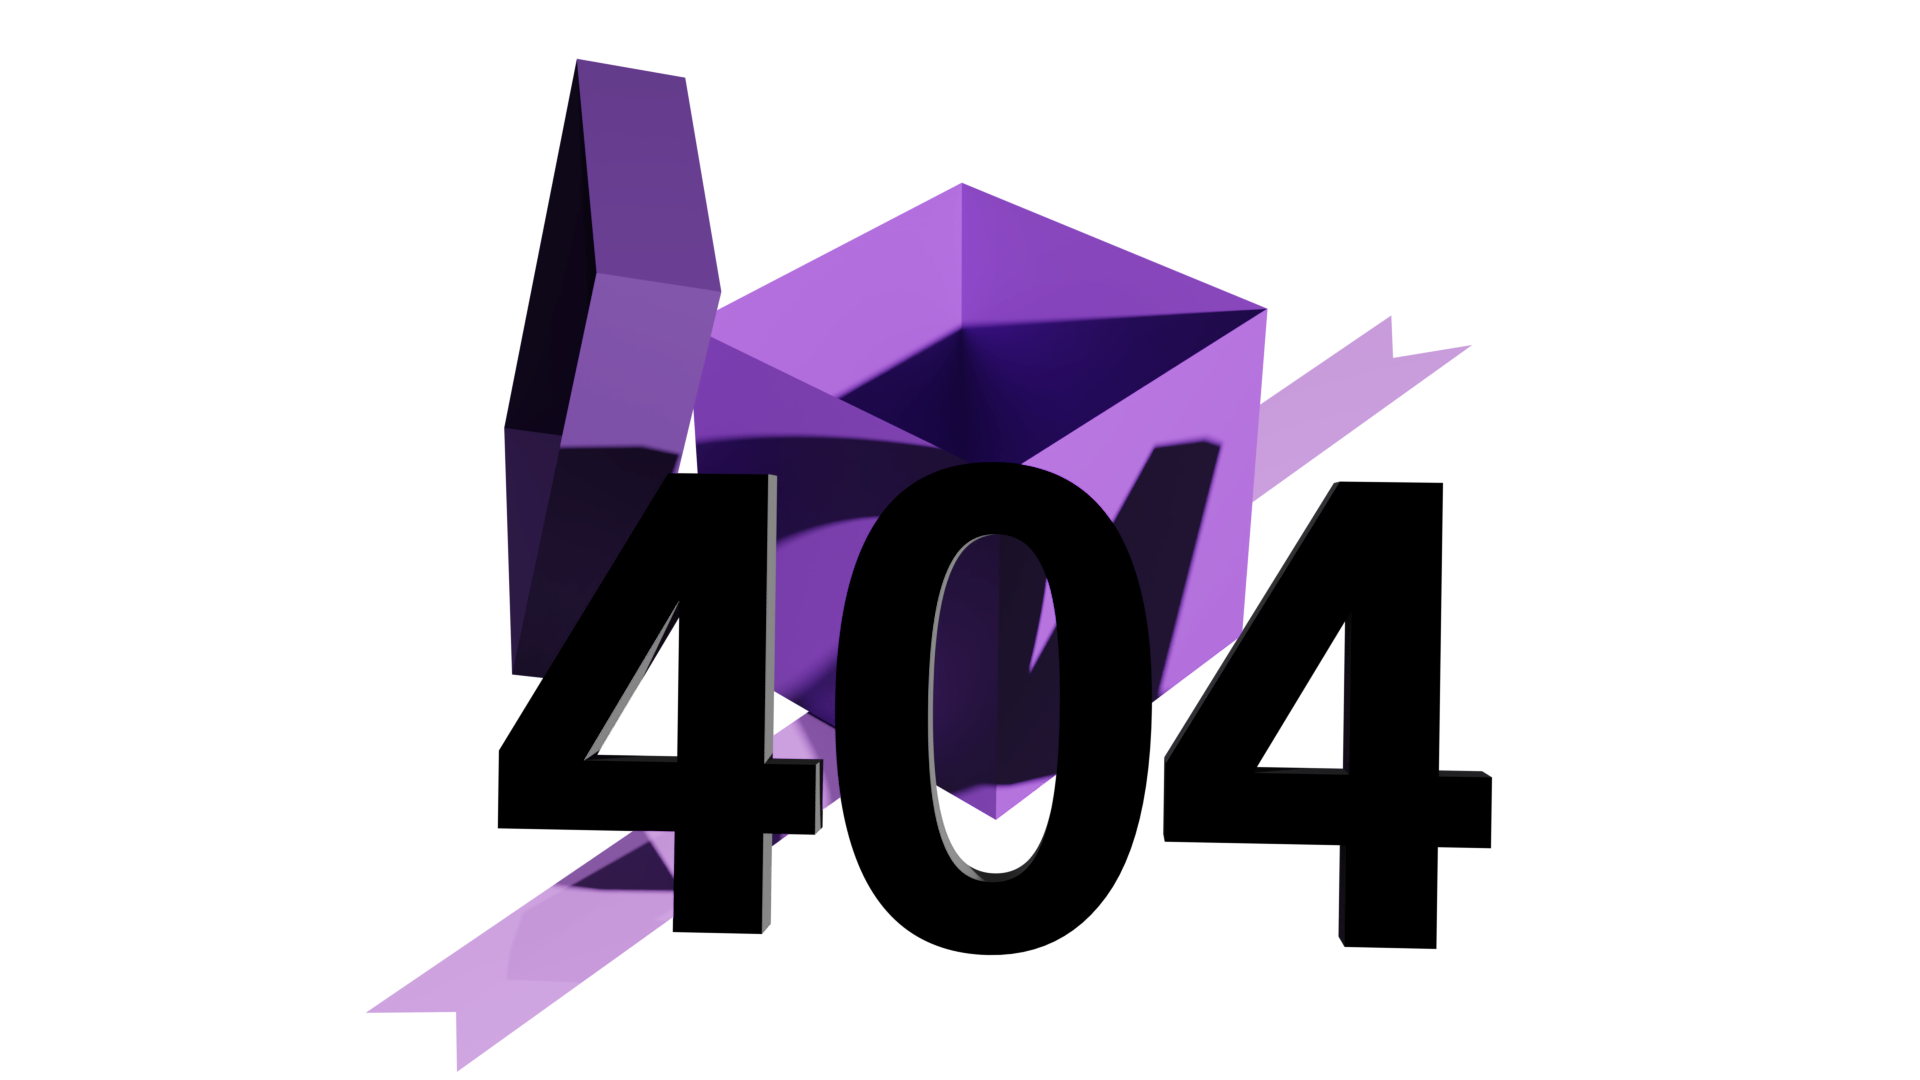
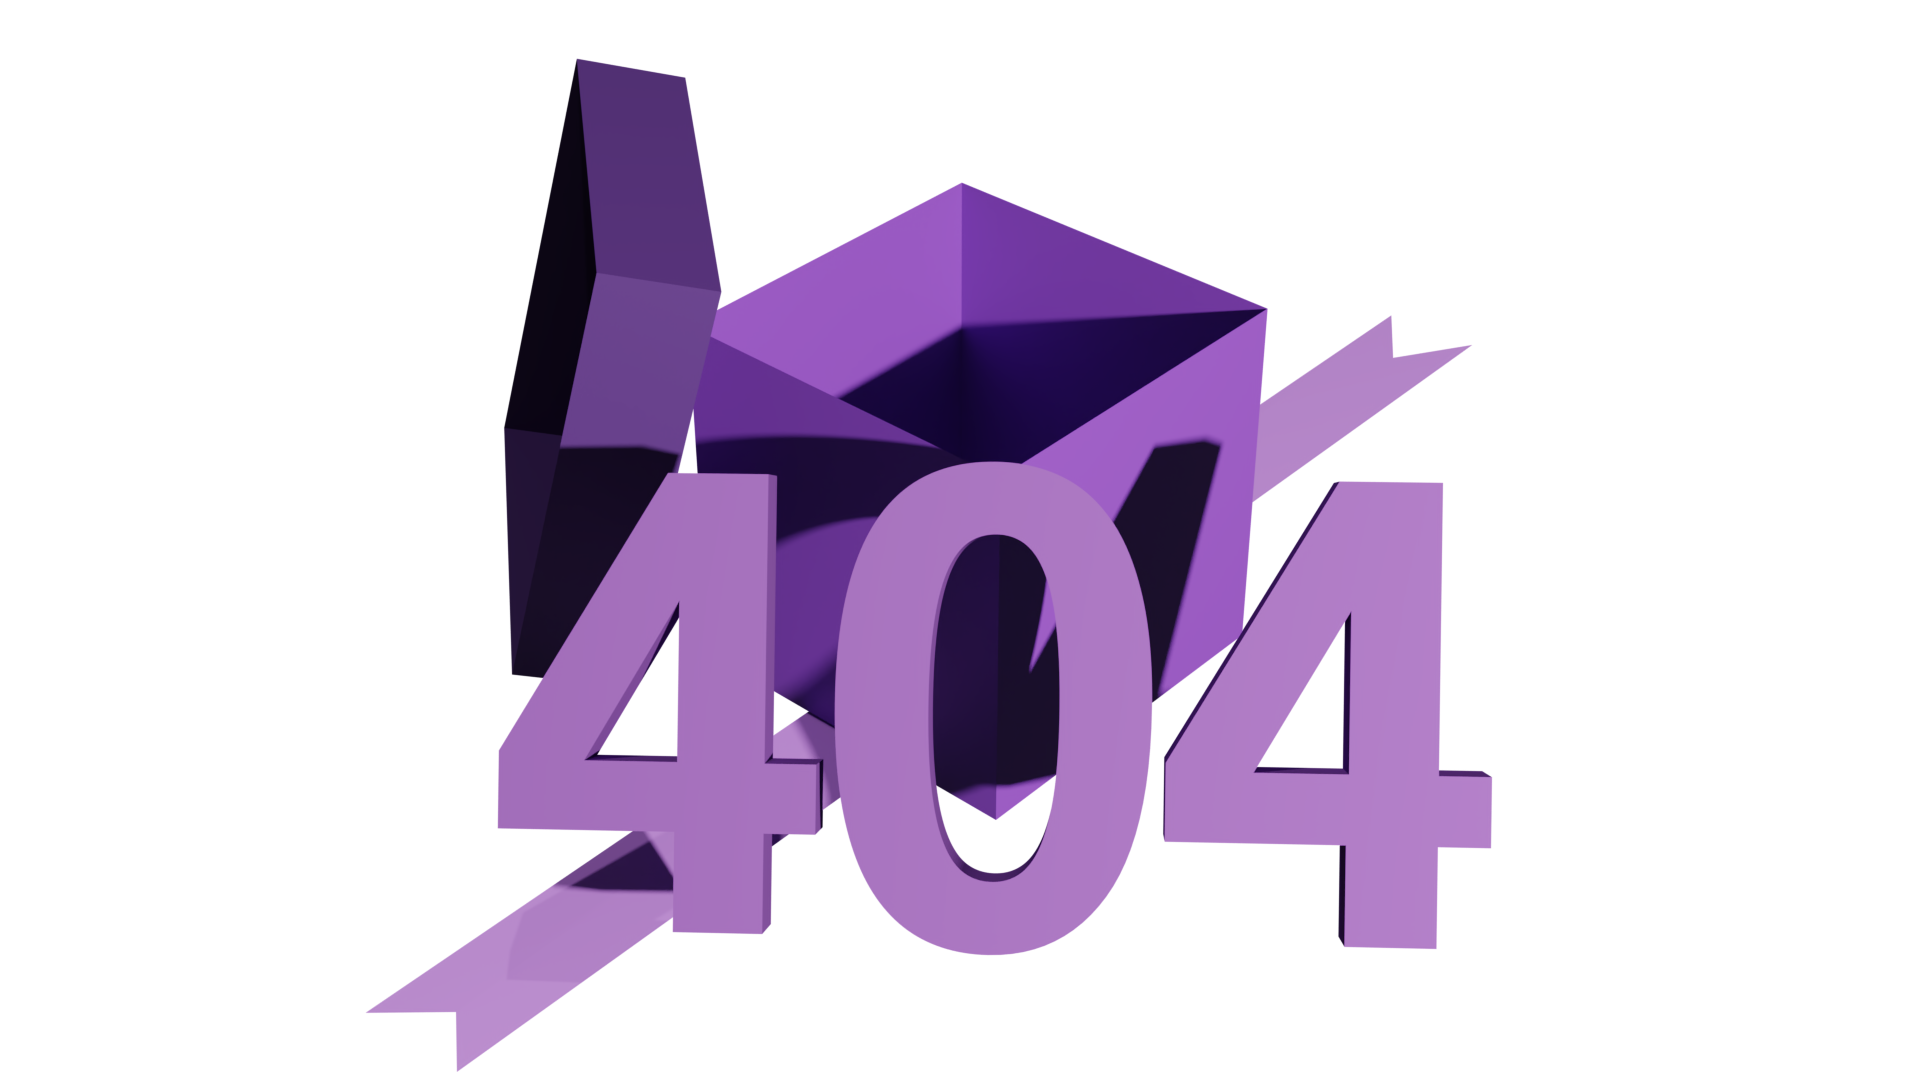
[*] Updated/fixed: |   Responsivity improved; |   Fixed a bug that allowed skipping pairs reveals; |   404 img is now lighter;

Changed region(s): [[0.25, 0.0611, 0.7812, 0.8861]]

diff --git a/src/components/revealButton/index.js b/src/components/revealButton/index.js
@@ -10,7 +10,7 @@ import { GetPairs } from "../../script";
 export default function RevealButton (props){
     const [holderState, setHolderState] = React.useState({transition: "0.5s", backgroundSize: "0px", backgroundImage: Ellipse}); //background
     const [buttonState, setButtonState] = React.useState({backgroundColor: "#8542c8", backgroundImage: PressNHold}); //button
-    const [information, setInformation] = React.useState({opacity: 0}); //info
+    const [information, setInformation] = React.useState({opacity: 0, display: "none"}); //info
     const [tOut, setTOut] = React.useState(false);
     const [guestTwo, setGuestTwo] = React.useState("...");
     const [mainColor, setMainColor] = React.useState();
@@ -27,7 +27,7 @@ export default function RevealButton (props){
     function revealDetail(){
         setHolderState({background: "none"});
         setButtonState({backgroundColor: "transparent", backgroundImage: "none", cursor: "default"});
-        setInformation({opacity: 1});
+        setInformation({opacity: 1, display: "flex"});
         setGuestTwo(props.guestTwo);
     }
 
@@ -47,15 +47,17 @@ export default function RevealButton (props){
     }
 
     return(
-        <div>
+        <div class="holderPairInfo">
             <p className="title" style={mainColor}><span>{props.guestOne}</span> got <span>{guestTwo}</span></p>
             <div className="revealButton" style={buttonState} onTouchStartCapture={() => startAnimation()} onMouseDownCapture={() => startAnimation()} onMouseUpCapture={() => stopAnimation()} onTouchEndCapture={() => stopAnimation()}>
                 <div className="buttonBackground" style={holderState}>
                     <div className="guestInfo" style={information}>
-                        <p className="title" style={mainColor}>Gift suggestion</p>
-                        <button className="fieldLike" style={mainColor}>{props.giftSuggestion}</button>
-                        <p className="title" style={mainColor}>Gift price (approx.)</p>
-                        <button className="fieldLike" style={mainColor}>{new Intl.NumberFormat('en-US', {style: 'currency', currency: 'USD',}).format(props.giftPrice)}</button>
+                        <div>
+                            <p className="title" style={mainColor}>Gift suggestion</p>
+                            <button className="fieldLike" style={mainColor}>{props.giftSuggestion}</button>
+                            <p className="title" style={mainColor}>Gift price (approx.)</p>
+                            <button className="fieldLike" style={mainColor}>{new Intl.NumberFormat('en-US', {style: 'currency', currency: 'USD',}).format(props.giftPrice)}</button>
+                        </div>
                         <Link
                             to={() => (props.currentPair === (GetPairs().length - 1)) ? ("/donate") : false}
                             onClick={() => (props.currentPair !== (GetPairs().length - 1)) ? (props.function((e) => (e + 1))) : false}>

diff --git a/src/pages/index/index.js b/src/pages/index/index.js
@@ -37,12 +37,16 @@ export default function Index (props){
     return(
         <div className="page">
             {(panelContent) ? <BottomPanel theme={props.theme} closePanel={() => setPanelContent(false)} content={panelContent}/> : false}
-            <Header theme={props.theme} headerFunction={props.headerFunction}/>
-            <p className='title' style={mainColor}>Need an app to help you host a Secret Santa?</p>
-            <p className='subTitle' style={secondColor}>Enter the names, gift suggestions, and more for free!</p>
+            <div>
+                <Header theme={props.theme} headerFunction={props.headerFunction}/>
+                <p className='title' style={mainColor}>Need an app to help you host a Secret Santa?</p>
+                <p className='subTitle' style={secondColor}>Enter the names, gift suggestions, and more for free!</p>
+            </div>
             <img className="giffty3d" alt="Giffty 3D" src={Giffty3D}/>
-            <Link to="/event-details"><Button value="Start" image={RightArrow} alt="Next icon"/></Link>
-            <p className="bottomLink" onClick={() => howTo()}>How to use</p>
+            <div>
+                <Link to="/event-details"><Button value="Start" image={RightArrow} alt="Next icon"/></Link>
+                <p className="bottomLink" onClick={() => howTo()}>How to use</p>
+            </div>
         </div>
     );
 }

diff --git a/src/pages/gameBegin/index.js b/src/pages/gameBegin/index.js
@@ -21,11 +21,15 @@ export default function GameBegin (props){
     let stepTwo = <div><div style={{color: "#8542c8", display: "inline-block"}}>Press and hold</div> the reveal button to show your pair.</div>;
     return(
         <div className="page">
-            <Header step={0} theme={props.theme} headerFunction={props.headerFunction}/>
-            <p className='title' style={mainColor}>The game is on!</p>
-            <Instruction theme={props.theme} number={1} text="Pass the device to the one whom name shows on the screen."/>
-            <Instruction theme={props.theme} number={2} text={stepTwo}/>
-            <Instruction theme={props.theme} number={3} text="Repeat step 01."/>
+            <div>
+                <Header step={0} theme={props.theme} headerFunction={props.headerFunction}/>
+                <p className='title' style={mainColor}>The game is on!</p>
+            </div>
+            <div>
+                <Instruction theme={props.theme} number={1} text="Pass the device to the one whom name shows on the screen."/>
+                <Instruction theme={props.theme} number={2} text={stepTwo}/>
+                <Instruction theme={props.theme} number={3} text="Repeat step 01."/>
+            </div>
             <Link to="/reveal" onClick={() => SetPairs()}><Button value="Next" image={RightArrow} alt="Next icon"/></Link>
         </div>
     );

diff --git a/src/pages/eventDetails/index.js b/src/pages/eventDetails/index.js
@@ -26,11 +26,15 @@ export default function EventDetails (props){
 
     return(
         <div className="page">
-            <Header step={1} theme={props.theme} link="/" headerFunction={props.headerFunction}/>
-            <p className='title' style={mainColor}>Let's set the budget first.</p>
-            <span style={{height: "36vh"}}/>
-            <TextField value={GetPrice()} type="num" function={saveField} theme={props.theme} format="currency" placeholder="Gift price (optional)"/>
-            <Link to="/guests" onClick={() => SetPrice(fieldValue)}><Button value={buttonValue} image={RightArrow} alt="Next icon"/></Link>
+            <div>
+                <Header step={1} theme={props.theme} link="/" headerFunction={props.headerFunction}/>
+                <p className='title' style={mainColor}>Let's set the budget first.</p>
+            </div>
+            <span style={{height: "30vh"}}/>
+            <div>
+                <TextField value={GetPrice()} type="num" function={saveField} theme={props.theme} format="currency" placeholder="Gift price (optional)"/>
+                <Link to="/guests" onClick={() => SetPrice(fieldValue)}><Button value={buttonValue} image={RightArrow} alt="Next icon"/></Link>
+            </div>
         </div>
     );
 }

diff --git a/src/pages/darkPairs/index.js b/src/pages/darkPairs/index.js
@@ -89,11 +89,13 @@ export default function DarkPairs (props){
     return(
         <div className="page">
             {(panelContent) ? <BottomPanel theme={props.theme} closePanel={() => setPanelContent(false)} unmountTime={unmountPanel} content={panelContent}/> : false}
-            <Header step={3} theme={props.theme} link="/guests" headerFunction={props.headerFunction}/>
-            <p className='title' style={mainColor}>
-                Would you like to set any dark pairs?
-                <img alt="Information icon" src={icon} onClick={() => infoDarkPair()}/>
-            </p>
+            <div>
+                <Header step={3} theme={props.theme} link="/guests" headerFunction={props.headerFunction}/>
+                <p className='title' style={mainColor}>
+                    Would you like to set any dark pairs?
+                    <img alt="Information icon" src={icon} onClick={() => infoDarkPair()}/>
+                </p>
+            </div>
             <div className="guestList">
                 {(appendDarkPairs().length !== 0) ? appendDarkPairs().map((x) => (x)) : false}
                 <AddItem function={getAddDarkPair} text="Add Dark Pair"/>

diff --git a/src/pages/donate/index.js b/src/pages/donate/index.js
@@ -23,9 +23,11 @@ export default function Donate (props){
 
     return(
         <div className="page">
-            <Header step={0} theme={props.theme} headerFunction={props.headerFunction}/>
-            <p className='title' style={mainColor}>The game is on!</p>
-            <p className='subTitle' style={secondColor}>Hope you enjoyed using the app. Donating helps keep the project online.</p>
+            <div>
+                <Header step={0} theme={props.theme} headerFunction={props.headerFunction}/>
+                <p className='title' style={mainColor}>The game is on!</p>
+                <p className='subTitle' style={secondColor}>Hope you enjoyed using the app. Donating helps keep the project online.</p>
+            </div>
             <img className="giffty3d" alt="Giffty 3D" src={Giffty3D}/>
             <a href="https://github.com/alisuetal"><Button value="Contact me" image={Contact} alt="Next icon"/></a>
             {/*<Link to=""><Button value="Donate" image={DonateIcon} alt="Next icon"/></Link>*/}

diff --git a/src/pages/guests/index.js b/src/pages/guests/index.js
@@ -79,8 +79,10 @@ export default function Guests (props){
     return(
         <div className="page">
             {(panelContent) ? <BottomPanel theme={props.theme} closePanel={() => setPanelContent(false)} unmountTime={unmountPanel} content={panelContent}/> : false}
-            <Header step={2} theme={props.theme} link="/event-details" headerFunction={props.headerFunction}/>
-            <p className='title' style={mainColor}>Set the guests.</p>
+            <div>
+                <Header step={2} theme={props.theme} link="/event-details" headerFunction={props.headerFunction}/>
+                <p className='title' style={mainColor}>Set the guests.</p>
+            </div>
             <div className="guestList">
                 {(appendGuests().length !== 0) ? appendGuests().map((x) => (x)) : false}
                 <AddItem function={getAddGuest} text="Add guest"/>

diff --git a/src/pages/404/index.js b/src/pages/404/index.js
@@ -23,8 +23,10 @@ export default function Page404 (props){
 
     return(
         <div className="page">
-            <Header theme={props.theme} headerFunction={props.headerFunction}/>
-            <p className='title' style={mainColor}>Page not found.</p>
+            <div>
+                <Header theme={props.theme} headerFunction={props.headerFunction}/>
+                <p className='title' style={mainColor}>Page not found.</p>
+            </div>
             <img className="IMG404" alt="Giffty 3D" src={IMG404}/>
             <Link to="/"><Button value="Home page" image={HomeIcon} alt="Home icon"/></Link>
         </div>

diff --git a/src/components/revealButton/index.css b/src/components/revealButton/index.css
@@ -1,6 +1,6 @@
 .revealButton {
     width: 100%;
-    min-height: 40vh;
+    height: 74vh;
     border-radius: 2vh;
     overflow: hidden;
     border: none;
@@ -14,6 +14,9 @@
     background-position: center;
     background-size: 35vh;
     background-repeat: no-repeat;
+    display: flex;
+    flex-flow: column;
+    justify-content: space-evenly;
 }
 
 .buttonBackground{
@@ -25,8 +28,12 @@
 }
 
 .guestInfo{
+    height: 100%;
     opacity: 0;
     transition: 1.6s;
+    display: none;
+    flex-flow: column;
+    justify-content: space-between;
 }
 
 .guestInfo p:nth-of-type(2){

diff --git a/src/pages/reveal/index.js b/src/pages/reveal/index.js
@@ -24,8 +24,10 @@ export default function Reveal (props){
 
     return(
         <div className="page">
-            <Header back={0} theme={props.theme} headerFunction={props.headerFunction}/>
-            {appendPair()}
+            <div>
+                <Header back={0} theme={props.theme} headerFunction={props.headerFunction}/>
+                {appendPair()}
+            </div>
         </div>
     );
 }

diff --git a/src/routes/index.css b/src/routes/index.css
@@ -26,7 +26,7 @@
 
 .root-page {
     background-color: #ffffff;
-    min-height: 100vh;
+    height: 100vh;
     display: flex;
     justify-content: center;
     align-items: center;
@@ -36,7 +36,7 @@
 .page{
     display: flex;
     flex-flow: column;
-    justify-content: center;
+    justify-content: space-evenly;
     width: 90%;
     max-width: 700px;
     height: 100%;

diff --git a/src/components/header/index.js b/src/components/header/index.js
@@ -44,7 +44,7 @@ export default function Header (props){
     }, [props.step]);
 
     return(
-        <div>
+        <div className="headerHolder">
             <div className="header">
                 {headerState["back"]}
                 <LogoName/>
